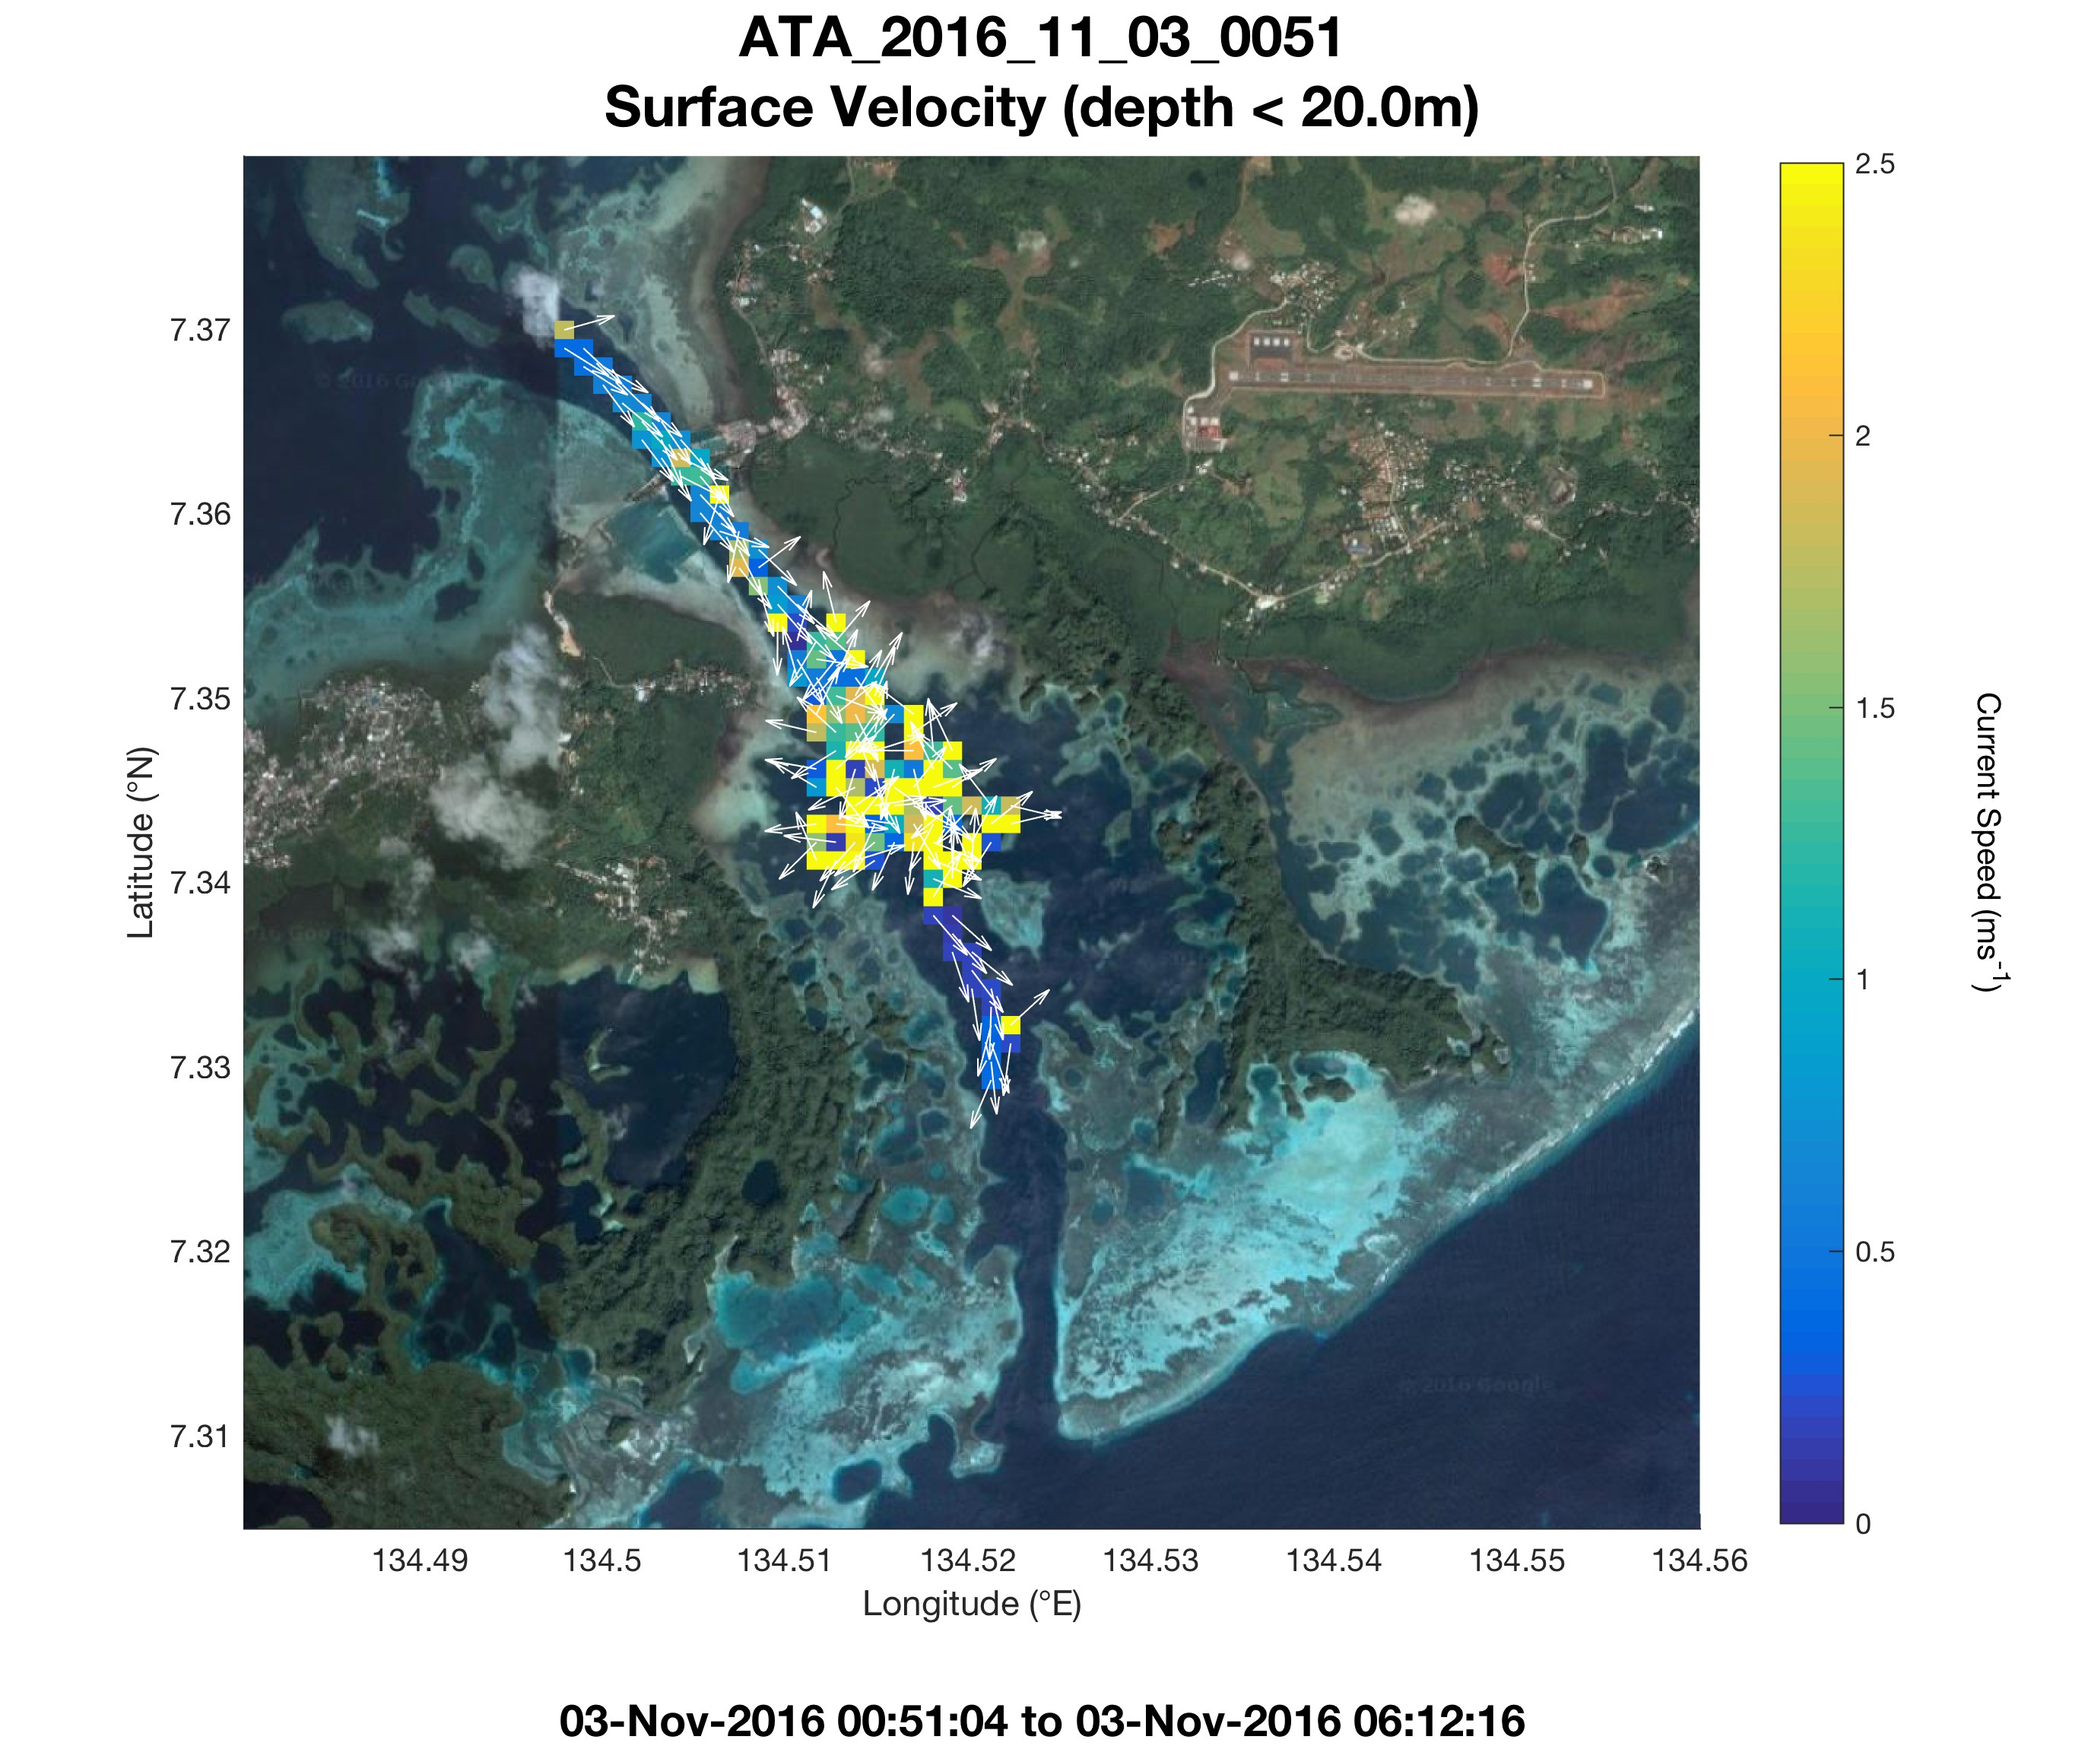
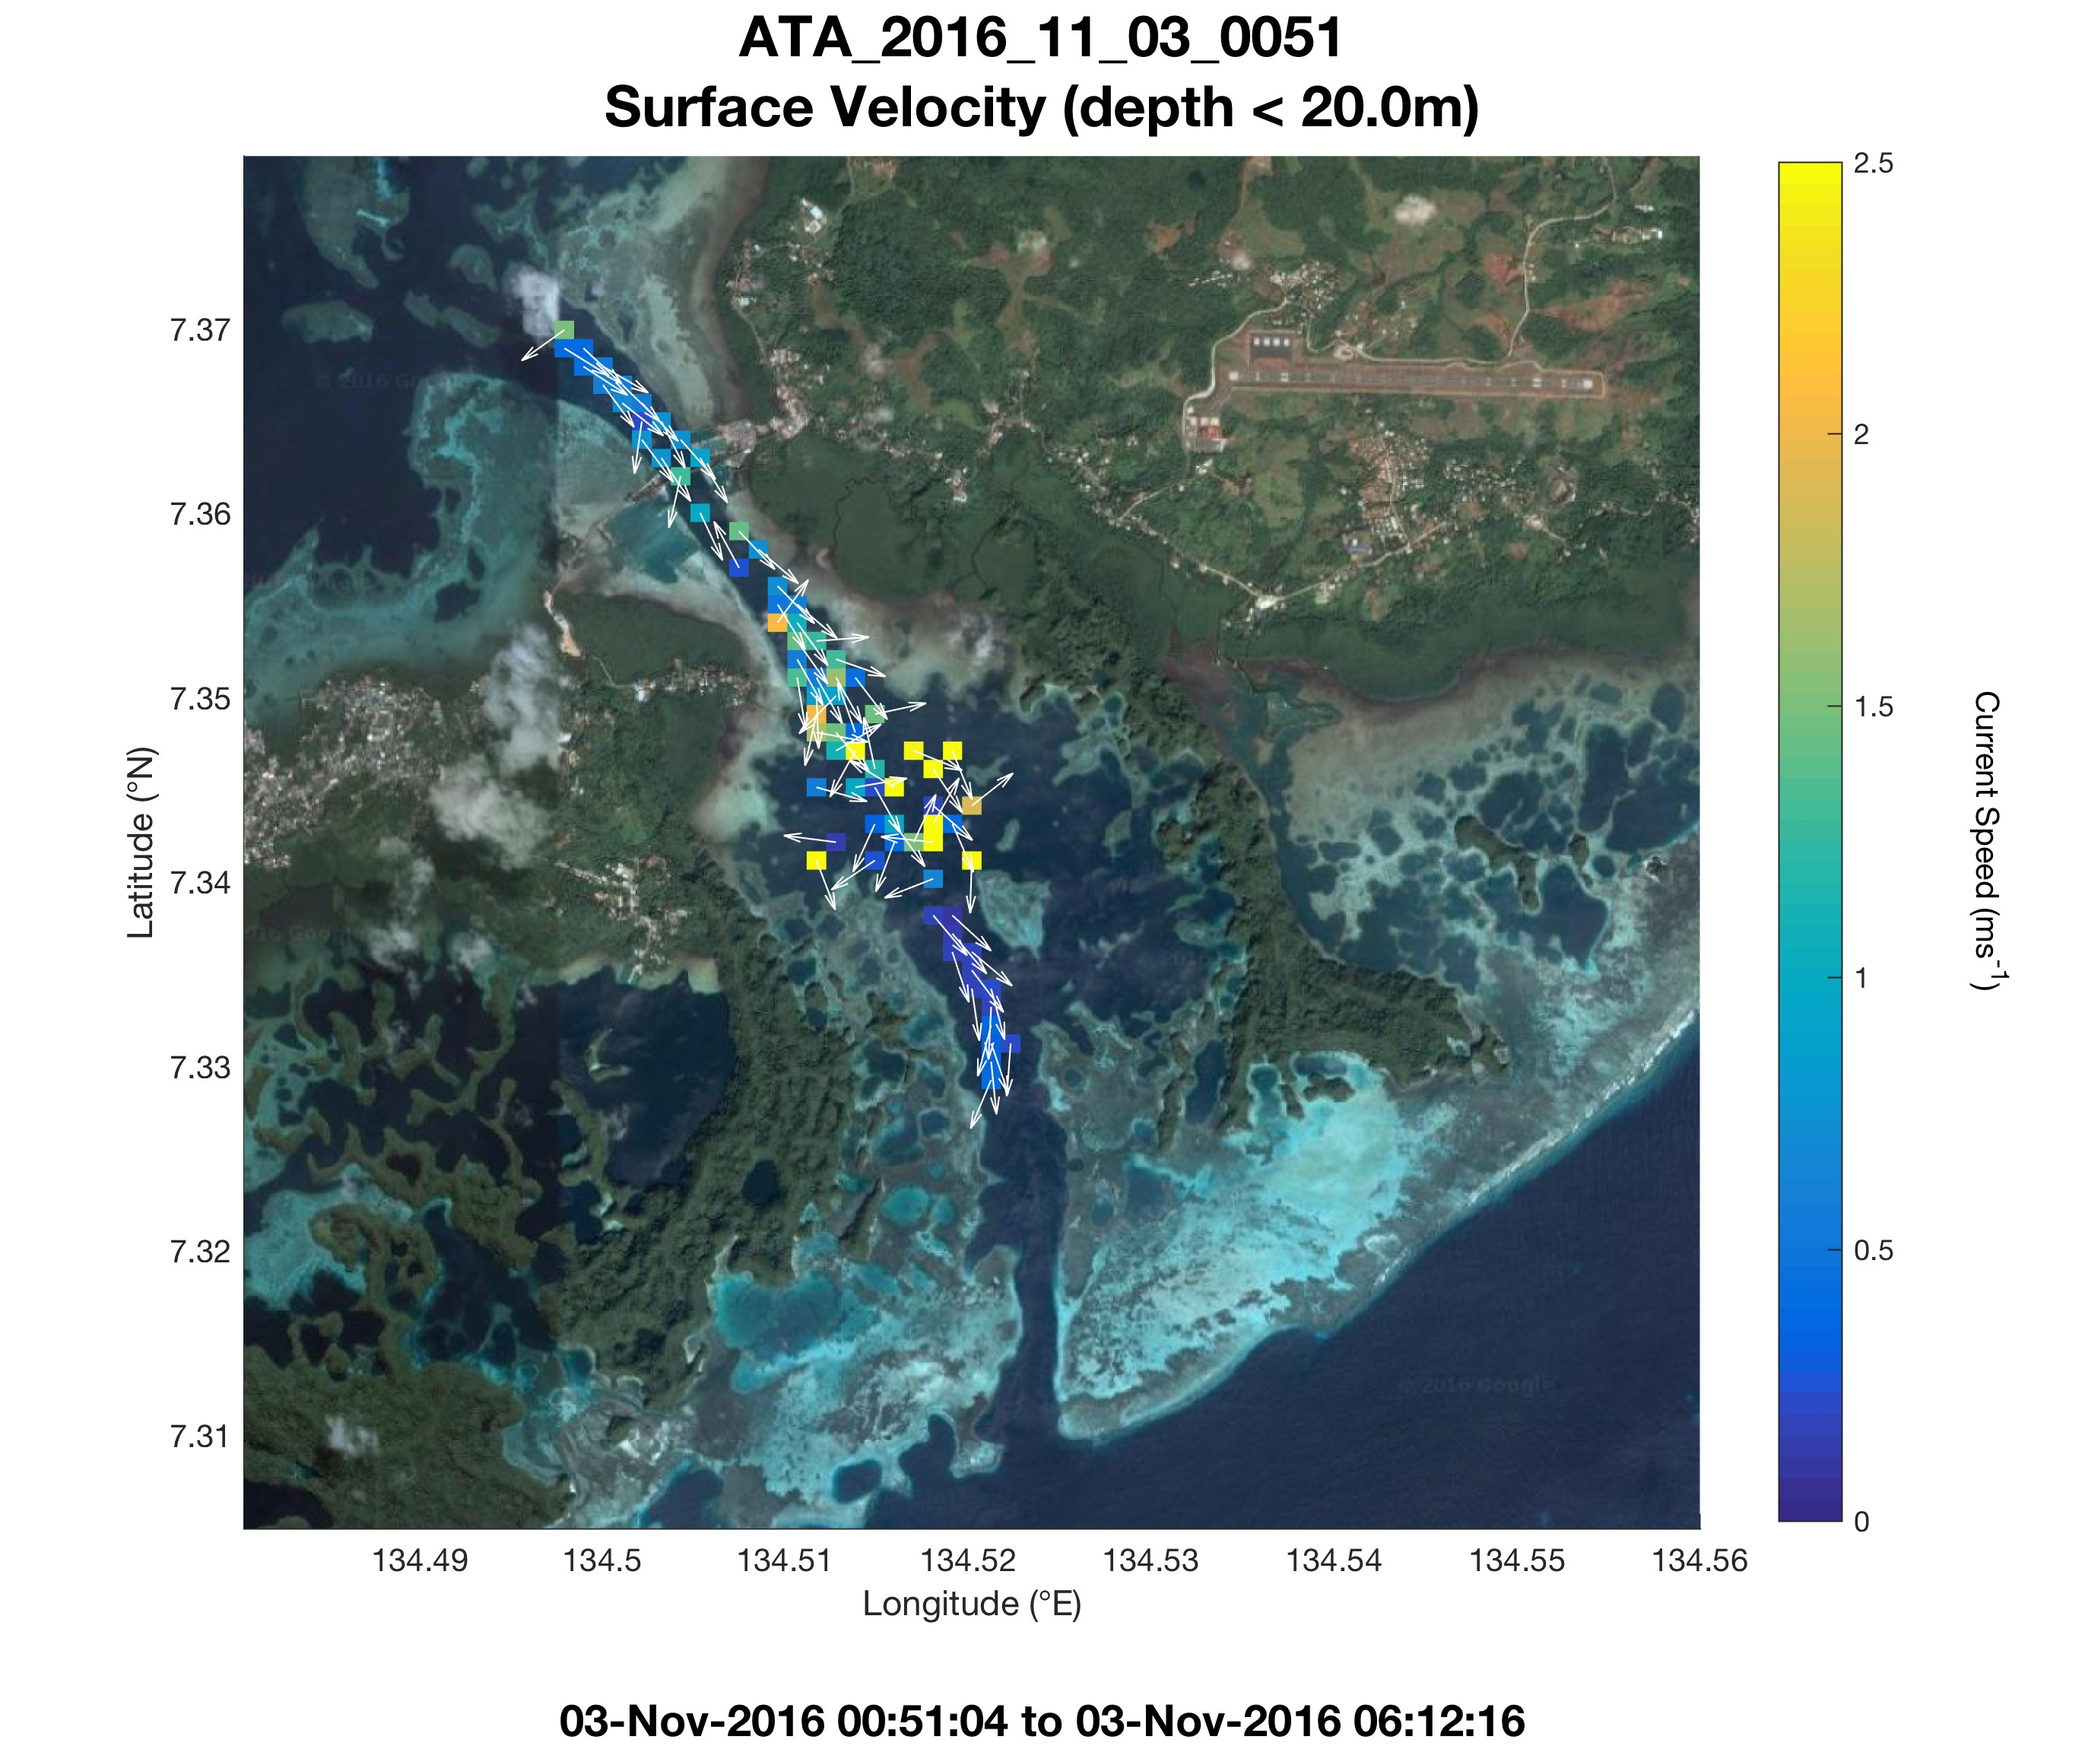
add Palau deployments

diff --git a/Code/palau_2016_nov/palau_2016_nov_deployments.m b/Code/palau_2016_nov/palau_2016_nov_deployments.m
@@ -1,4 +1,4 @@
-function [master,deployments] = ross_palau_2016_nov_deployments(ross);
+function [master,deployments] = palau_2016_nov_deployments(ross);
 
 
 %%% Trip info
@@ -7,75 +7,75 @@ master.name = 'palau_2016_nov';
 master.process_data = true;
 master.make_figures.summary = true;
 master.make_figures.surface_vel = true;
-master.make_figures.diagnostics = true;
 master.kayaks = {'Ata'};
 
-
-%% ADCP info
-ADCP_300 = struct('freq',300,...
-                  'beam_angle',20,...
-                  'h0',135,...
-                  'unit_dir',1); % 1:towards xducer; -1:away from xducer
 
 %%% Kayak deployment info
 
 %% Kayak 1: Ata
 % Deployment defaults
-ata0.ADCP = ADCP_300;
+bt90 = struct('name','BT','params',90);
+co90 = struct('name','cutoff','params',90);
+corrflt = struct('name','corrmin','params',50);
+rotmax = struct('name','rotmax','params',3);
 ata0.plot.map.pos = [1000 847 548 491];
+ata0.proc.heading_offset = 135;
+ata0.proc.adcp_load_function = 'adcp_parse';
+ata0.proc.filters(1) = corrflt;
+% ata0.proc.filters(2) = rotmax;
 
-
-dep = 1;
-ata(dep).name = 'ATA_2016_11_03_0051';
-ata(dep).files.map = 'palau.mat';
-ata(dep).ADCP = ADCP_300;
-ata(dep).tlim = datenum(['03-Nov-2016 00:51:03';
-                         '03-Nov-2016 06:12:18']);
-ata(dep).files.adcp = {'ROSS4011.000'};
-ata(dep).files.gps = {'GPS_20161103004229.log';
-                      'GPS_20161103015217.log';
-                      'GPS_20161103030237.log';
-                      'GPS_20161103041141.log';
-                      'GPS_20161103052115.log'};
-ata(dep).proc.vel = 'BT';
-ata(dep).proc.trim = {'BT'};
-ata(dep).plot.ylim = [0 50];
-ata(dep).plot.map.pos = [1000 787 658 551];
+%-------------------------------------------------------%
+dep                            = 1;
+ata(dep).name                  = 'ATA_2016_11_03_0051';
+ata(dep).files.map             = 'palau.mat';
+ata(dep).tlim                  = datenum(...
+    ['03-Nov-2016 00:51:03';
+     '03-Nov-2016 06:12:18']);
+ata(dep).files.adcp            = {'ROSS4011.000'};
+ata(dep).files.gps             = {...
+    'GPS_20161103004229.log';
+    'GPS_20161103015217.log';
+    'GPS_20161103030237.log';
+    'GPS_20161103041141.log';
+    'GPS_20161103052115.log'};
+ata(dep).proc.ship_vel_removal = 'BT';
+ata(dep).plot.ylim             = [0 50];
+ata(dep).plot.map.pos          = [1000 787 658 551];
+ata(dep).proc.trim_methods(1)  = bt90;
+%-------------------------------------------------------%
+dep                            = 2;
+ata(dep).name                  = 'ATA_2016_11_06_0017';
+ata(dep).files.map             = 'peleliu.mat';
+ata(dep).tlim                  = datenum(...
+    ['06-Nov-2016 00:17:22';
+     '06-Nov-2016 03:18:53']);
+ata(dep).files.adcp            = {'ROSS4013.000'};
+ata(dep).files.gps             = {...
+    'GPS_20161105234903.log';
+    'GPS_20161106005834.log';
+    'GPS_20161106020801.log';
+    'GPS_20161106031808.log'};
+ata(dep).proc.ship_vel_removal = 'GPS'; % Use GPS to remove ship velocity
+ata(dep).plot.ylim             = [0 100];
+ata(dep).proc.trim_methods(1)  = co90;
+%-------------------------------------------------------%
+dep                            = 3;
+ata(dep).name                  = 'ATA_2016_11_06_0352';
+ata(dep).files.map             = 'peleliu.mat';
+ata(dep).tlim                  = datenum(...
+    ['06-Nov-2016 03:52:56';
+     '06-Nov-2016 06:53:25']);
+ata(dep).files.adcp            = {'ROSS4013.000'};
+ata(dep).files.gps             = {...
+    'GPS_20161106033141.log';
+    'GPS_20161106044153.log';
+    'GPS_20161106055122.log'};
+ata(dep).proc.ship_vel_removal = 'GPS'; % Use GPS to remove ship velocity
+ata(dep).proc.bad              = {datenum(['06-Nov-2016 05:31:46';
+                    '06-Nov-2016 05:50:30'])};
+ata(dep).plot.ylim             = [0 100];
+ata(dep).proc.trim_methods(1)  = co90;
 %-------------------------------------------------------%
 
-
-dep = 2;
-ata(dep).name = 'ATA_2016_11_06_0017';
-ata(dep).files.map = 'peleliu.mat';
-ata(dep).ADCP = ADCP_300;
-ata(dep).tlim = datenum(['06-Nov-2016 00:17:22';
-                         '06-Nov-2016 03:18:53']);
-ata(dep).files.adcp = {'ROSS4013.000'};
-ata(dep).files.gps = {'GPS_20161105234903.log';
-                      'GPS_20161106005834.log';
-                      'GPS_20161106020801.log';
-                      'GPS_20161106031808.log'};
-ata(dep).proc.trim = {'BT', 90};
-ata(dep).proc.vel = 'GPS'; % Use GPS to remove ship velocity
-ata(dep).plot.ylim = [0 100];
-%-------------------------------------------------------%
-
-
-dep = 3;
-ata(dep).name = 'ATA_2016_11_06_0352';
-ata(dep).files.map = 'peleliu.mat';
-ata(dep).ADCP = ADCP_300;
-ata(dep).tlim = datenum(['06-Nov-2016 03:52:56';
-                         '06-Nov-2016 06:53:25']);
-ata(dep).files.adcp = {'ROSS4013.000'};
-ata(dep).files.gps = {'GPS_20161106033141.log';
-                      'GPS_20161106044153.log';
-                      'GPS_20161106055122.log'};
-ata(dep).proc.trim = {'BT', 90}; % Trim data below 90m
-ata(dep).proc.vel = 'GPS'; % Use GPS to remove ship velocity
-ata(dep).proc.bad = {datenum(['06-Nov-2016 05:31:46';
-                              '06-Nov-2016 05:50:30'])};
-ata(dep).plot.ylim = [0 100];
-
-ata = ross_fill_defaults(ata,ata0);
-deployments = {ata};
+ata                            = ross_fill_defaults(ata,ata0);
+deployments                    = {ata};
